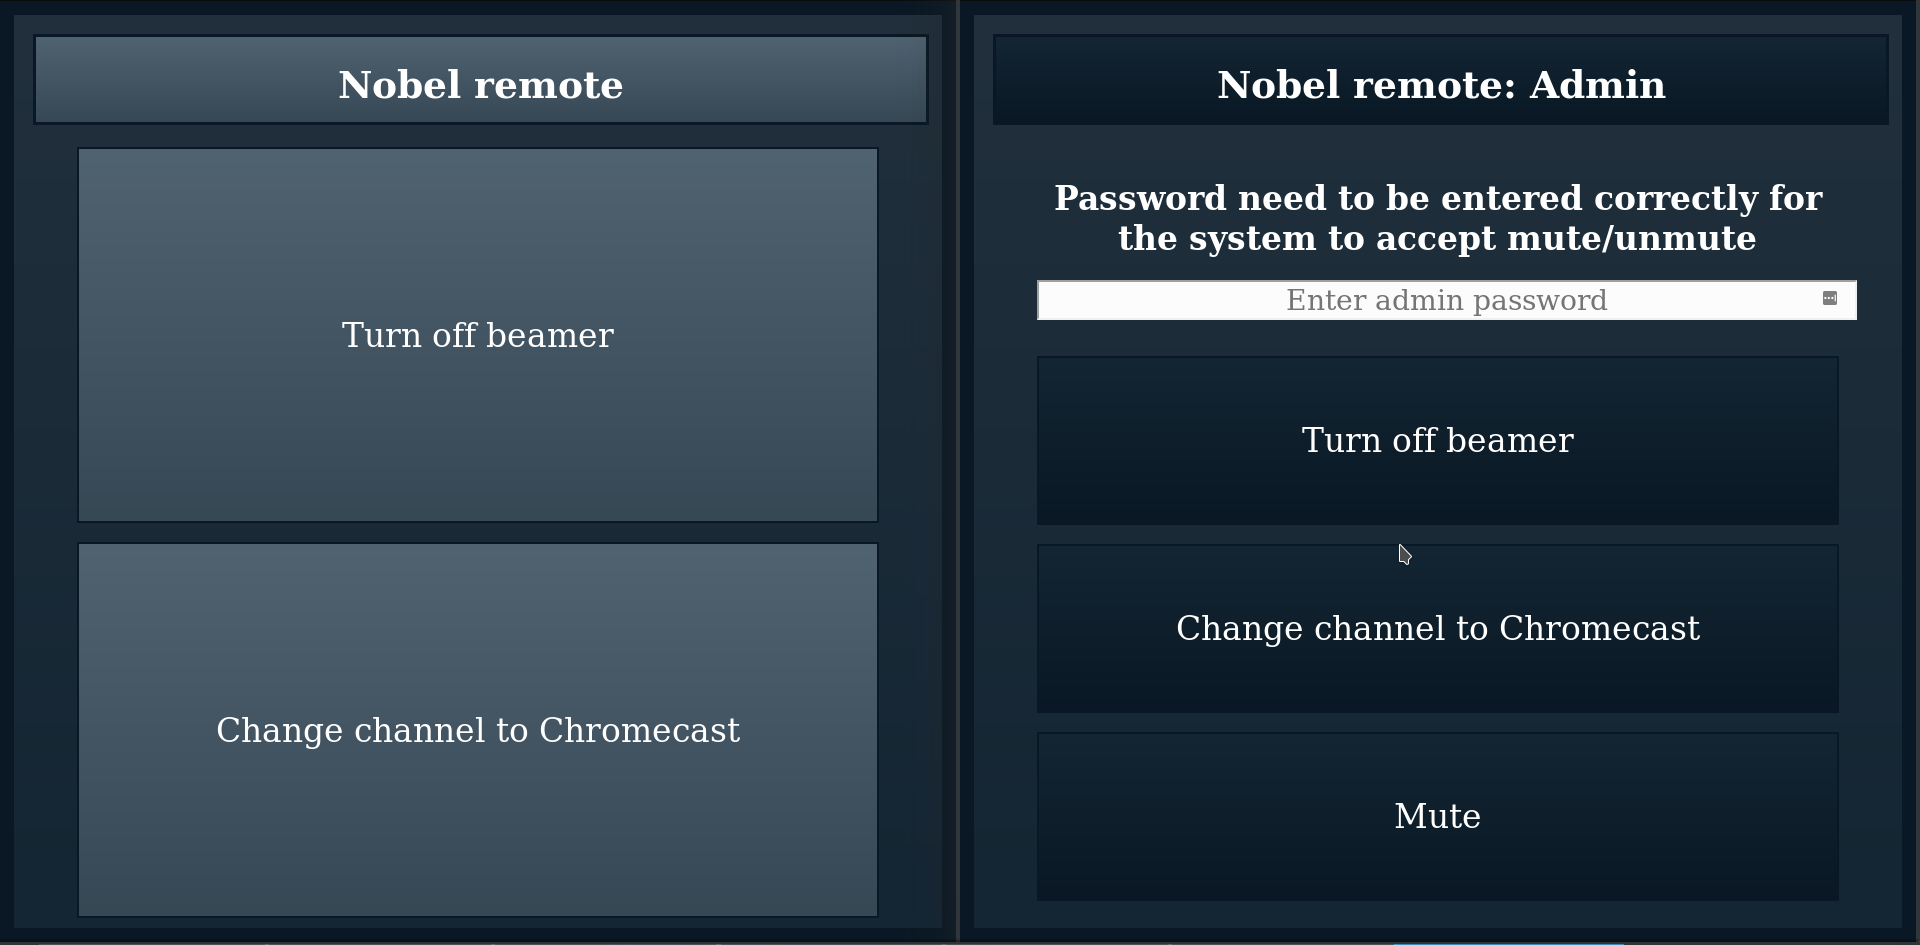
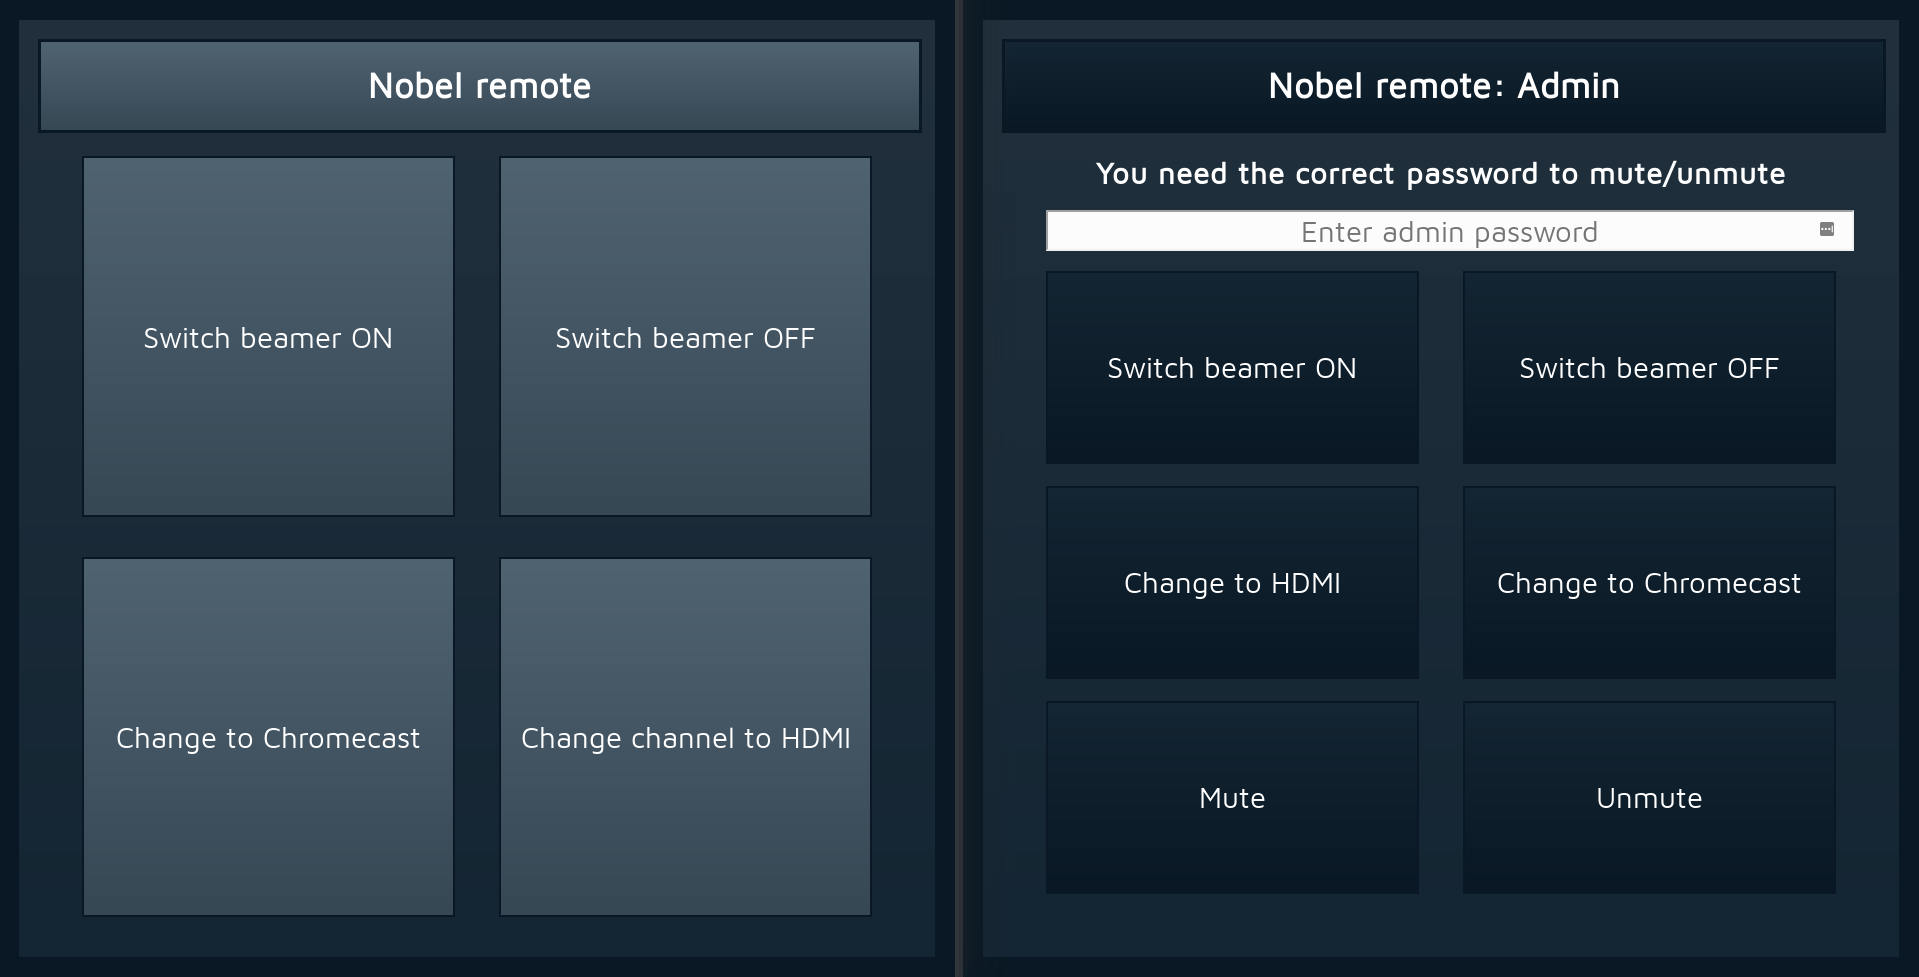
Minor changes

diff --git a/frontend/src/Pages/Admin/Admin.js b/frontend/src/Pages/Admin/Admin.js
@@ -48,27 +48,28 @@ class Admin extends React.Component {
                                 className="Admin_PassForm customText_b" 
                                 placeholder="Enter admin password" 
                                 onChange={this.OnChange} 
-                                required/>
+                                required
+                        />
 
                         <div className="Admin_BTN_Row">
                             <button onClick={this.beamerOn} 
                                     className="Admin_BTN_Left dark_BTN customText_w">
-                                    Turn ON beamer
+                                    Switch beamer ON
                             </button>
                             <button onClick={this.beamerOff} 
                                     className="Admin_BTN_Right dark_BTN customText_w">
-                                    Turn OFF beamer
+                                    Switch beamer OFF
                             </button>
                         </div>
 
                         <div className="Admin_BTN_Row">
                             <button onClick={this.channelHDMI} 
                                     className="Admin_BTN_Left dark_BTN customText_w">
-                                    Change channel to HDMI
+                                    Change to HDMI
                             </button>
                             <button onClick={this.channelChromecast} 
                                     className="Admin_BTN_Right dark_BTN customText_w">
-                                    Change channel to Chromecast
+                                    Change to Chromecast
                             </button>
                         </div>
 

diff --git a/frontend/src/Pages/Home/Home.js b/frontend/src/Pages/Home/Home.js
@@ -29,22 +29,22 @@ class Home extends React.Component {
                         <div className="Home_BTN_Row">
                             <button onClick={this.beamerOn} 
                                     className="Home_BTN_Left std_BTN customText_w">
-                                    Turn ON beamer
+                                    Switch beamer ON
                             </button>
                             <button onClick={this.beamerOff} 
                                     className="Home_BTN_Right std_BTN customText_w">
-                                    Turn OFF beamer
+                                    Switch beamer OFF
                             </button>
                         </div>
 
                         <div className="Home_BTN_Row">
                             <button onClick={this.channelChromecast} 
                                     className="Home_BTN_Left std_BTN customText_w">
-                                    Change channel to Chromecast
+                                    Change to Chromecast
                             </button>
                             <button onClick={this.channelHDMI} 
                                     className="Home_BTN_Right std_BTN customText_w">
-                                    Change channel to HDMI
+                                    Change to HDMI
                             </button>
                         </div>
                     </div>

diff --git a/frontend/src/Styles.css b/frontend/src/Styles.css
@@ -54,35 +54,13 @@ body{
 .std_BTN{
     background-image: linear-gradient(#506371, #374855);
     border-style: solid;
+    border-width: 0.3vh;
     border-color: #091824; 
 } 
 
 .dark_BTN{
     background-image: linear-gradient(#142533, #091824);
     border-style: solid;
+    border-width: 0.3vh;
     border-color: #091824; 
-}
-
-.yellow_BTN{
-    background-color: rgb(235, 176, 49);
-    border-style: solid;
-    border-color: rgb(94, 94, 94); 
-}
-
-.green_BTN{
-    background-color: rgb(24, 155, 20);
-    border-style: solid;
-    border-color: rgb(94, 94, 94); 
-}
-
-.blue_BTN{
-    background-color: rgb(20, 112, 155);
-    border-style: solid;
-    border-color: rgb(94, 94, 94); 
-}
-
-.red_BTN{
-    background-color: rgb(170, 11, 11);
-    border-style: solid;
-    border-color: rgb(94, 94, 94);  
 }

diff --git a/frontend/src/Socket/Socket.js b/frontend/src/Socket/Socket.js
@@ -1,7 +1,6 @@
 import openSocket from 'socket.io-client';
 
-// This ensures that all files work with the same socket,
-// as long as this is included in their file
+// This ensures that all files work with the same socket
 const socket = openSocket('http://localhost:8000');
 
 export {socket};

diff --git a/frontend/src/Pages/Pages.css b/frontend/src/Pages/Pages.css
@@ -1,8 +1,8 @@
 .PageBorder{
     background-image: linear-gradient(#21303C, #142533);
     position: absolute;
-    left: 1.5vh;
-    right: 1.5vh;
-    top: 1.5vh;
-    bottom: 1.5vh;
+    left: 2vh;
+    right: 2vh;
+    top: 2vh;
+    bottom: 2vh;
 }
